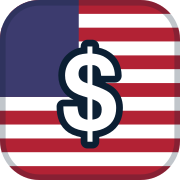
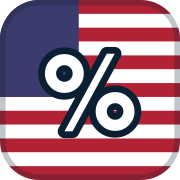
Icône drapeau : symbole distinct du site voisin du même pays (États-Unis, %)
Registre _trame/icones-drapeau.txt : deux sites d'un même pays ne partagent jamais le même dessin.
Icônes régénérées avec la version à jour de gen-flag-icon.py.

Changed region(s): [[0.1944, 0.1944, 0.8056, 0.8333]]

diff --git a/scripts/gen-flag-icon.py b/scripts/gen-flag-icon.py
@@ -1,7 +1,9 @@
 """Favicon et logo aux couleurs du drapeau du pays — RECETTE §19.1 (règle du 2026-10-04).
 
 Usage : python3 gen-flag-icon.py <code-pays> <symbole> [dossier-site]
-        symbole : un texte court (€, zł, $, kr…) ou « maison » pour une icône de maison.
+        symbole : un texte court (€, zł, $, kr, ALG…) ou un pictogramme : « maison », « eclair ».
+Deux sites du même pays ne partagent jamais le même dessin : la devise va au site principal,
+les autres prennent le sigle ou le pictogramme de leur sujet (registre : _trame/icones-drapeau.txt).
 Écrit public/favicon.svg et public/logo.svg, puis lancer `node scripts/gen-icons.mjs`
 pour les PNG et l'ICO.
 
@@ -92,9 +94,14 @@ def bands(code):
     raise SystemExit(f'drapeau inconnu : {code}')
 
 
+BOLT = '<path d="M19.5 3 7 18h7.5L12 29 25 13.5h-7.5L20.5 3z" fill="#fff" stroke="#0B1F33" stroke-width="1.6" stroke-linejoin="round" paint-order="stroke"/>'
+
+
 def symbol(sym, code):
     if sym == 'maison':
         return HOUSE
+    if sym == 'eclair':
+        return BOLT
     size = 19 if len(sym) == 1 else 14 if len(sym) == 2 else 11
     y = 23 if len(sym) == 1 else 21.5
     # Texte blanc cerné de sombre : lisible sur les bandes claires comme foncées, jusqu'à 16 px.
